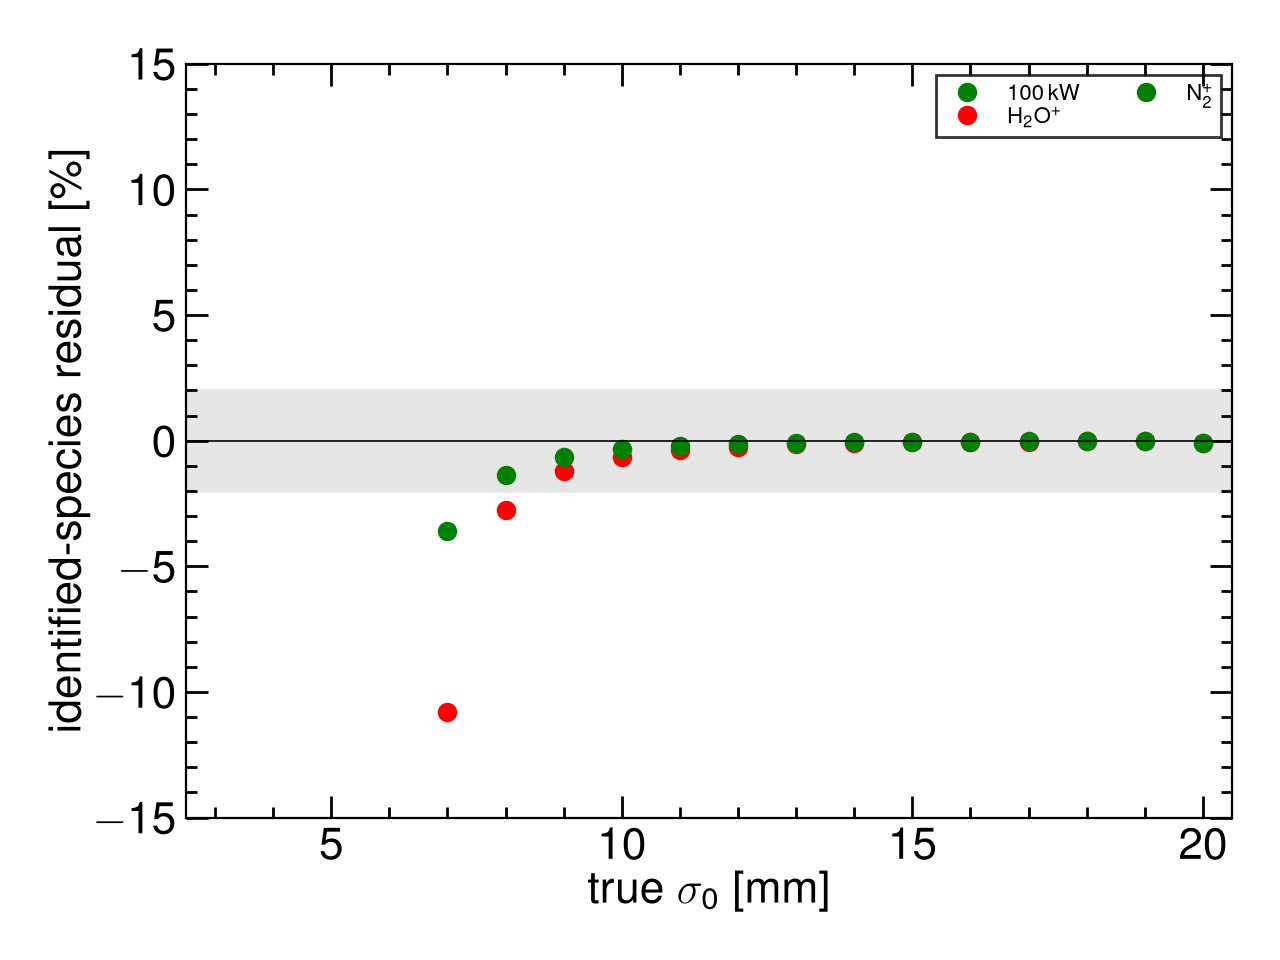
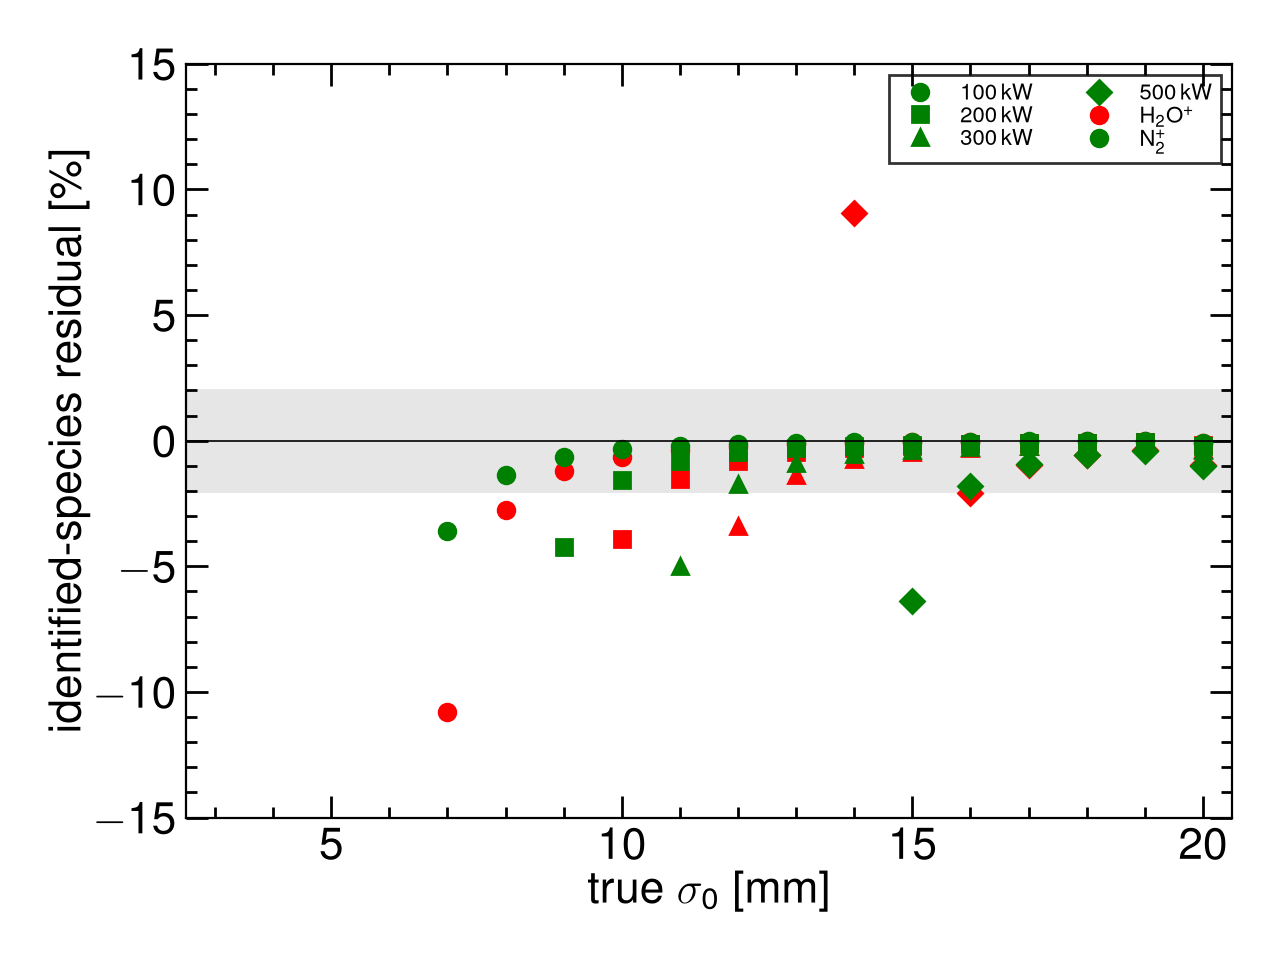
Merge I2 extraction invert at 200–500 kW into §4.4
Fix dense-extraction evaluate to reuse the shared H2+ SC-off
archive at 100 kW, append the 72 new 1 mm rows, and quote the
aligned-extraction recoveries in tab:invp and the report.

diff --git a/IPM/CSNS_IPM_REPORT.tex b/IPM/CSNS_IPM_REPORT.tex
@@ -865,14 +865,23 @@ $\sigma_0\ge 6\,\mathrm{mm}$.
 
 The same $1\,\mathrm{mm}$ I2 fill is evaluated at $200$, $300$
 and $500\,\mathrm{kW}$ (Fig.~\ref{fig:invxp},
-Table~\ref{tab:invp}). The fold moves out with power, as at
-injection: near $10\,\mathrm{mm}$ at $200$--$300\,\mathrm{kW}$
-and near $15\,\mathrm{mm}$ at $500\,\mathrm{kW}$. A
-$10\,\mathrm{mm}$ extraction core is then at or below
-$\sigma_0^*$ and is a core-versus-paint choice. The heavies
-remain inside the cage at $\sigma_0\ge 10\,\mathrm{mm}$ even
-at $500\,\mathrm{kW}$ (unlike injection). Commissioning I2
-powers ($20$--$80$, $150$, $250\,\mathrm{kW}$) stay on the
+Table~\ref{tab:invp}). At $200\,\mathrm{kW}$ the fold is at
+$9$ and $8\,\mathrm{mm}$; the $10\,\mathrm{mm}$ core sits on
+the rising branch and returns $9.61$ and $9.84\,\mathrm{mm}$
+(median residual $0.20\%$ and $0.21\%$ on
+$8$--$20\,\mathrm{mm}$). At $300\,\mathrm{kW}$ the fold has
+reached $11$ and $10\,\mathrm{mm}$: $\mathrm{N}_2^+$ has its
+minimum at the design size, and the $\mathrm{H}_2\mathrm{O}^+$
+paint-branch interpolant of a $10\,\mathrm{mm}$ width returns
+$11.9\,\mathrm{mm}$. The painted branch recovers to $0.35\%$
+and $0.38\%$. At $500\,\mathrm{kW}$ the fold is at $15$ and
+$14\,\mathrm{mm}$; a $10\,\mathrm{mm}$ core is the small root
+(the paint interpolant returns $\sim 21\,\mathrm{mm}$). The
+painted $15$--$20\,\mathrm{mm}$ branch still recovers to
+$0.96\%$ and $0.97\%$. Unlike injection, the heavies remain
+inside the cage at $\sigma_0\ge 10\,\mathrm{mm}$ even at
+$500\,\mathrm{kW}$. Commissioning I2 powers
+($20$--$80$, $150$, $250\,\mathrm{kW}$) stay on the
 $5\,\mathrm{mm}$ size grid and are not quoted as a
 $0.1\%$ invert. Field-cage non-uniformity---J-PARC reported a
 factor-of-two shrink from the external map
@@ -956,11 +965,23 @@ Ext.\ $1.6\,\mathrm{GeV}$
   & $2.8$ / $1.4$
   & $0$ / $0$ \\
   & $200$
-  & \multicolumn{5}{l}{$1\,\mathrm{mm}$ I2 fill (see text)} \\
+  & $9$ / $8$
+  & $9.61$ / $9.84$
+  & $0.20$ / $0.21$
+  & $3.9$ / $4.3$
+  & $0$ / $0$ \\
   & $300$
-  & \multicolumn{5}{l}{$1\,\mathrm{mm}$ I2 fill (see text)} \\
+  & $11$ / $10$
+  & core$^\dagger$
+  & $0.35$ / $0.38$
+  & $3.4$ / $5.0$
+  & $1$ / $1$ \\
   & $500$
-  & \multicolumn{5}{l}{$1\,\mathrm{mm}$ I2 fill (see text)} \\
+  & $15$ / $14$
+  & core$^\dagger$
+  & $0.96$ / $0.97$
+  & $2.1$ / $6.4$
+  & $5$ / $4$ \\
 \hline\hline
 \end{tabular}
 }
@@ -1021,8 +1042,9 @@ Invert $\sigma_m=\sigma_0\,h(\sigma_0,N,V)$
   & identify $\mathrm{H}_2\mathrm{O}^+$ or $\mathrm{N}_2^+$;
     $100\,\mathrm{kW}$: $0.2\%$ inj.\ / $0.1\%$ aligned ext.\
     ($8$--$20\,\mathrm{mm}$);
-    $200$--$300\,\mathrm{kW}$: painted branch $\lesssim 1\%$,
-    $10\,\mathrm{mm}$ is the small (core) root;
+    $200$--$300\,\mathrm{kW}$: painted branch $\lesssim 1\%$;
+    inj.\ $10\,\mathrm{mm}$ is the small (core) root
+    (ext.\ $200\,\mathrm{kW}$ still on the rising branch);
     $500\,\mathrm{kW}$ inj.\ fails at the wall;
     $\mathrm{H}_2^+$ is not used for the size \\
 \hline\hline

diff --git a/IPM/scripts/evaluate_v2.py b/IPM/scripts/evaluate_v2.py
@@ -90,7 +90,8 @@ def merge_dense_extraction() -> int:
         if not r["sc_on"]:
             continue
         on_p = ROOT / csv_rel(r)
-        off_p = ROOT / csv_rel(dict(r, species="ions", sc_on=False))
+        # H₂⁺ SC-off is shared across power (no bunch field).
+        off_p = ROOT / csv_rel(dict(r, species="ions", sc_on=False, power_kw=100))
         if not on_p.is_file() or not off_p.is_file():
             continue
         row = summarize_pair(on_p, off_p, f"{r['block']}_{v_family(r)}", r["b_gs"])
